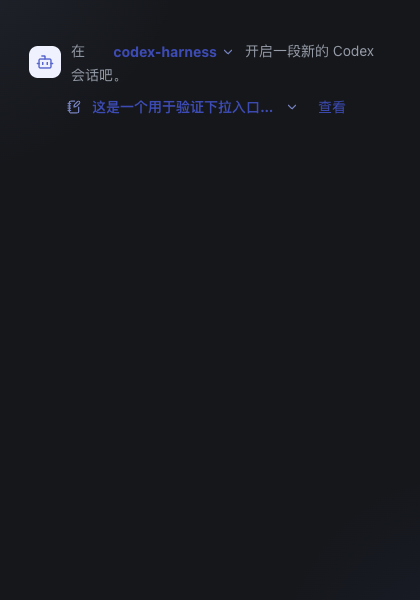
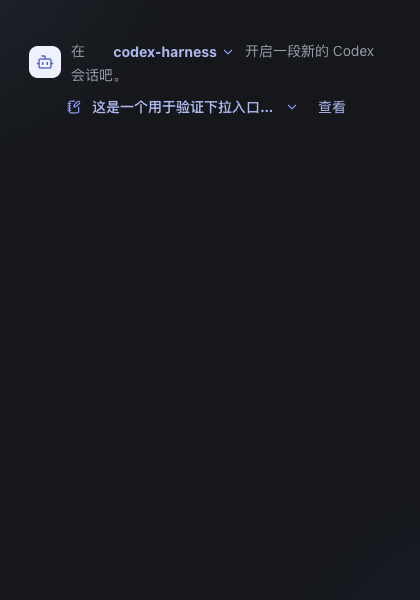
fix: share theme colors across new session selectors

diff --git a/src/styles.css b/src/styles.css
@@ -416,7 +416,7 @@ body.sidebar-split-resizing { cursor: row-resize; user-select: none; }
 .raw-response { margin: 0; overflow: auto; padding: 12px 14px; border: 1px solid #dfe2e7; border-radius: 8px; background: #f7f8fa; color: #303640; font-family: var(--h-font-mono); font-size: 12px; line-height: 1.58; white-space: pre-wrap; word-break: break-word; }
 
 .fresh-thread-wrap { width: min(780px, 100%); margin: 26px auto 24px; }
-.fresh-thread-row { display: flex; align-items: center; justify-content: center; flex-wrap: wrap; gap: 8px 20px; margin-bottom: 8px; }
+.fresh-thread-row { --fresh-control-text: #344fb8; --fresh-control-icon: #7181bd; --fresh-control-border: #cbd3f0; --fresh-control-hover: #f5f7ff; display: flex; align-items: center; justify-content: center; flex-wrap: wrap; gap: 8px 20px; margin-bottom: 8px; }
 .fresh-thread-header { min-width: 0; max-width: 100%; }
 .fresh-thread-header:empty { display: none; }
 .fresh-thread { min-width: 0; display: flex; align-items: center; justify-content: center; gap: 10px; margin: 0; color: #626a76; }
@@ -424,10 +424,10 @@ body.sidebar-split-resizing { cursor: row-resize; user-select: none; }
 .fresh-thread p { margin: 0; font-size: 14px; line-height: 1.4; }
 .fresh-thread strong { color: #303641; font-weight: 680; }
 .fresh-workspace-select { position: relative; display: inline-flex; align-items: center; margin: 0 4px; vertical-align: -1px; }
-.fresh-workspace-select select { max-width: 260px; height: 26px; padding: 0 23px; appearance: none; border: 1px solid transparent; border-radius: 6px; outline: 0; background: transparent; color: #344fb8; cursor: pointer; font: inherit; font-weight: 720; text-align: center; text-overflow: ellipsis; }
-.fresh-workspace-select select:hover:not(:disabled), .fresh-workspace-select select:focus-visible { border-color: #cbd3f0; background: #f5f7ff; }
+.fresh-workspace-select select { max-width: 260px; height: 26px; padding: 0 23px; appearance: none; border: 1px solid transparent; border-radius: 6px; outline: 0; background: transparent; color: var(--fresh-control-text); cursor: pointer; font: inherit; font-weight: 720; text-align: center; text-overflow: ellipsis; }
+.fresh-workspace-select select:hover:not(:disabled), .fresh-workspace-select select:focus-visible { border-color: var(--fresh-control-border); background: var(--fresh-control-hover); }
 .fresh-workspace-select select:disabled { padding: 0 7px; color: #303641; cursor: default; opacity: 1; }
-.fresh-workspace-select svg { position: absolute; right: 6px; color: #7181bd; pointer-events: none; }
+.fresh-workspace-select svg { position: absolute; right: 6px; color: var(--fresh-control-icon); pointer-events: none; }
 .fresh-workspace-select select:disabled + svg { display: none; }
 
 .codex-update-panel { overflow: hidden; padding: 20px; border: 1px solid #dde1e8; border-radius: 14px; background: rgba(255, 255, 255, .82); box-shadow: 0 10px 32px rgba(34, 40, 55, .055); }
@@ -631,11 +631,11 @@ body.sidebar-split-resizing { cursor: row-resize; user-select: none; }
 .project-diff-row.changed code:first-child { background: #fdecea; color: #b3261e; }
 .project-diff-row.changed code:last-child { background: #e9f7ee; color: #1e7e34; }
 .project-binding-panel { display: flex; align-items: center; flex-wrap: wrap; gap: 4px; max-width: 100%; font-size: 14px; color: inherit; }
-.project-binding-icon { display: grid; place-items: center; color: #7181bd; }
+.project-binding-icon { display: grid; place-items: center; color: var(--fresh-control-icon); }
 .project-binding-text { flex: 1 1 auto; min-width: 0; overflow-wrap: anywhere; }
 .project-binding-actions { display: inline-flex; min-width: 0; max-width: 100%; gap: 6px; align-items: center; }
-.project-binding-actions button { padding: 3px 6px; border: 1px solid transparent; border-radius: 6px; background: transparent; color: #344fb8; font: inherit; cursor: pointer; }
-.project-binding-actions button:hover, .project-binding-actions button:focus-visible { border-color: #cbd3f0; background: #f5f7ff; }
+.project-binding-actions button { padding: 3px 6px; border: 1px solid transparent; border-radius: 6px; background: transparent; color: var(--fresh-control-text); font: inherit; cursor: pointer; }
+.project-binding-actions button:hover, .project-binding-actions button:focus-visible { border-color: var(--fresh-control-border); background: var(--fresh-control-hover); }
 .project-binding-select { min-width: 0; max-width: 220px; margin: 0; }
 .project-binding-label { overflow: hidden; padding: 0 27px 0 6px; line-height: 26px; font-weight: 720; white-space: nowrap; text-overflow: ellipsis; visibility: hidden; }
 .project-binding-select select { position: absolute; inset: 0; width: 100%; min-width: 0; max-width: 100%; padding-left: 6px; text-align: left; }
@@ -1745,3 +1745,5 @@ body.sidebar-split-resizing { cursor: row-resize; user-select: none; }
 .app-shell[data-theme='dark'] .composer-text-highlight { color: #e1e5eb; }
 .app-shell[data-theme='dark'] .has-project-card textarea { caret-color: #e1e5eb; }
 .app-shell[data-theme='dark'] .composer-project-label { color: #fb923c; }
+
+.app-shell[data-theme='dark'] .fresh-thread-row { --fresh-control-text: #aab9f1; --fresh-control-icon: #8499ef; --fresh-control-border: #59647f; --fresh-control-hover: #2a2e36; }

diff --git a/.harness/frontend-style.md b/.harness/frontend-style.md
@@ -28,6 +28,12 @@
 - 右侧工具（铃铛、连接状态等）放进 `.notification-tab-tools` 这个居中容器（`height:40px; align-items:center`），与左侧 `.thread-tabs`（撑满整行居中）对齐。
 - 容器内子元素**不要再加 `margin-bottom` 之类的一次性垂直微调**；`connection-state` 自带的下外边距在该容器内已被归零。需要垂直定位时调整容器的 `align-items`，而不是给单个子元素补 margin。
 
+## 新会话提示行（工作区 / 项目绑定）
+
+- 提示与紧凑插件入口使用 `fresh-thread-row` 的 flex 换行布局；插件通过 `newThreadPanels` 的 `placement: 'header'` 接入。
+- 工作区与项目选择器共用 `fresh-workspace-select`，原生 select 保留键盘操作；项目入口按当前名称占位并限制最大宽度，不能让未选中的长名称撑开布局。
+- 文字、图标、hover 背景和边框使用提示行的 `--fresh-control-*` 变量，深浅主题成对定义；项目操作按钮复用同一色板。
+
 ## 新增区域时
 
 如果要加一个上文没覆盖的新固定区域，先在本文件补一节约定（结构、共用组、主题要点），再写样式；不要让新区域成为下一个「各自实现」的特例。
